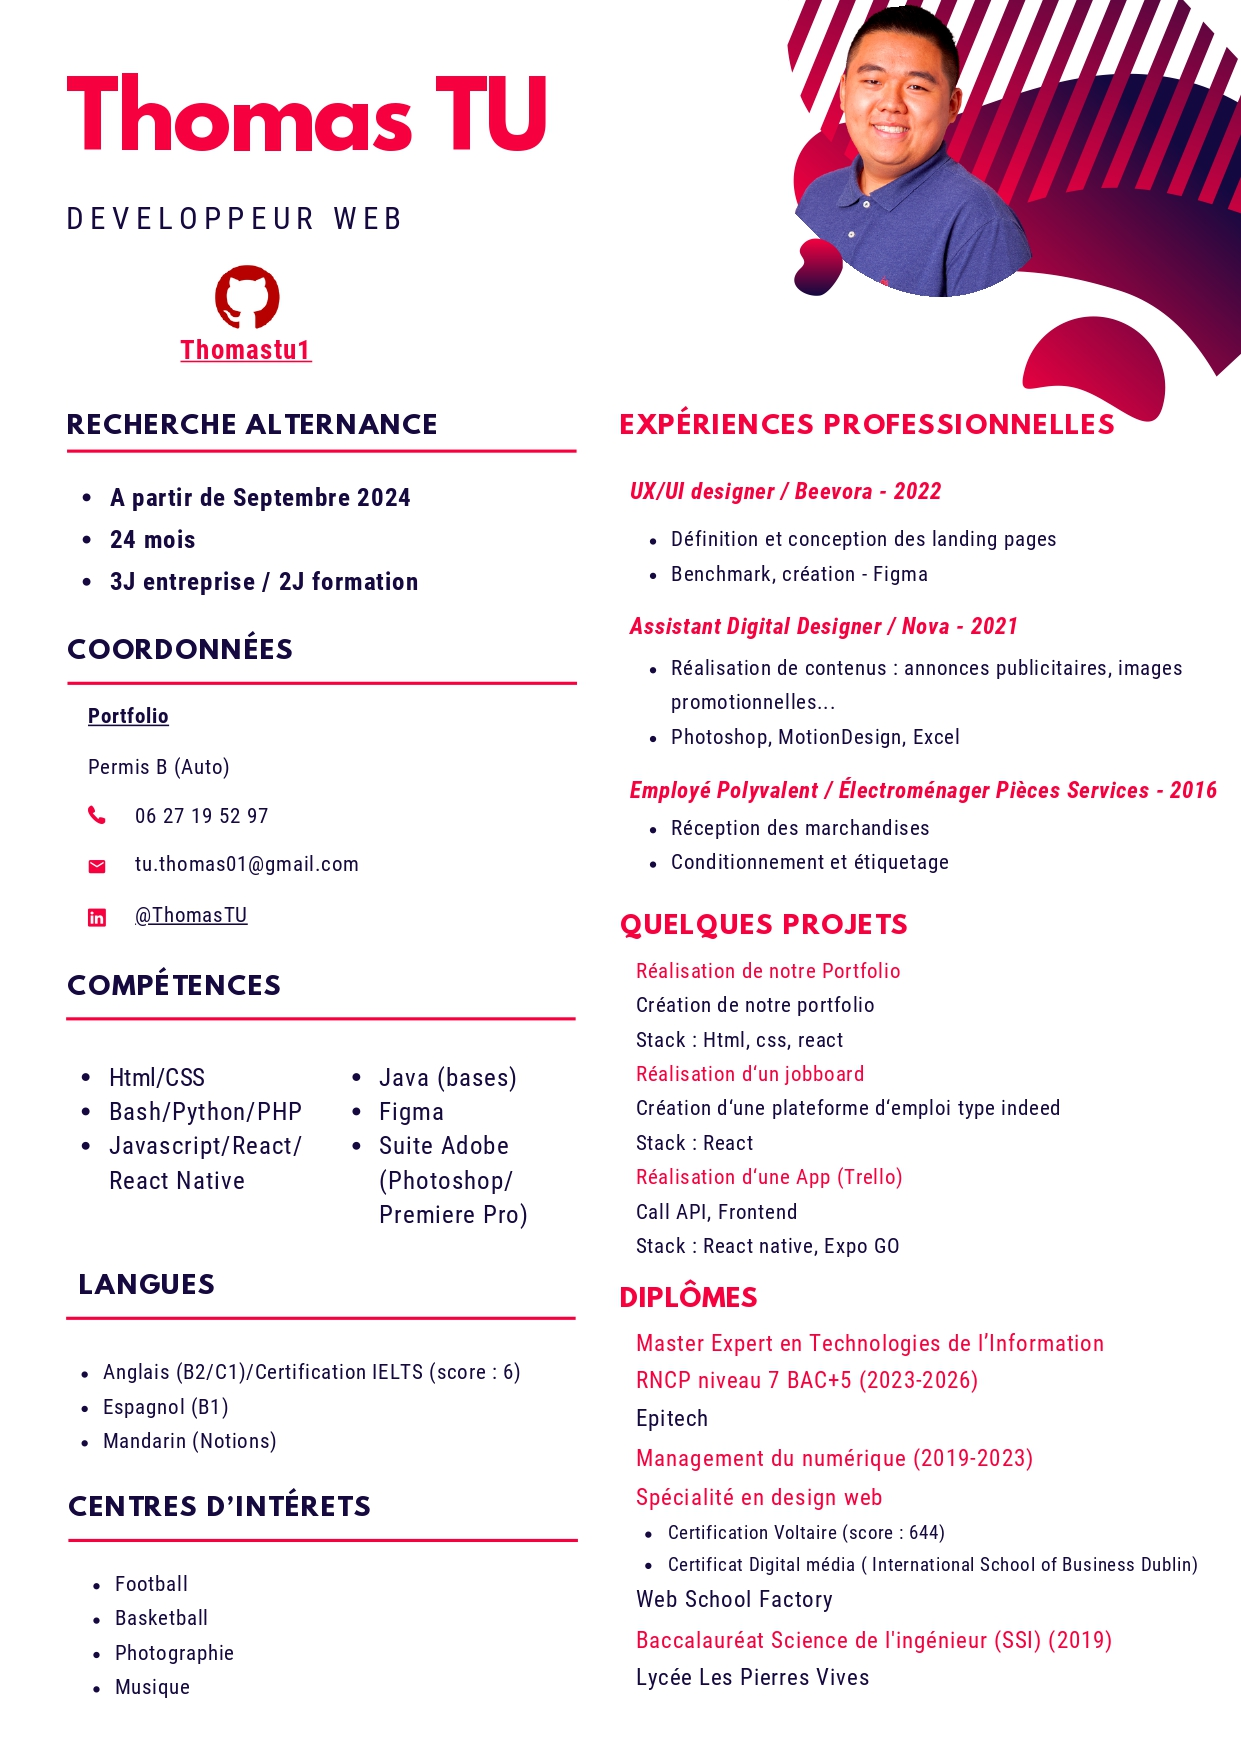
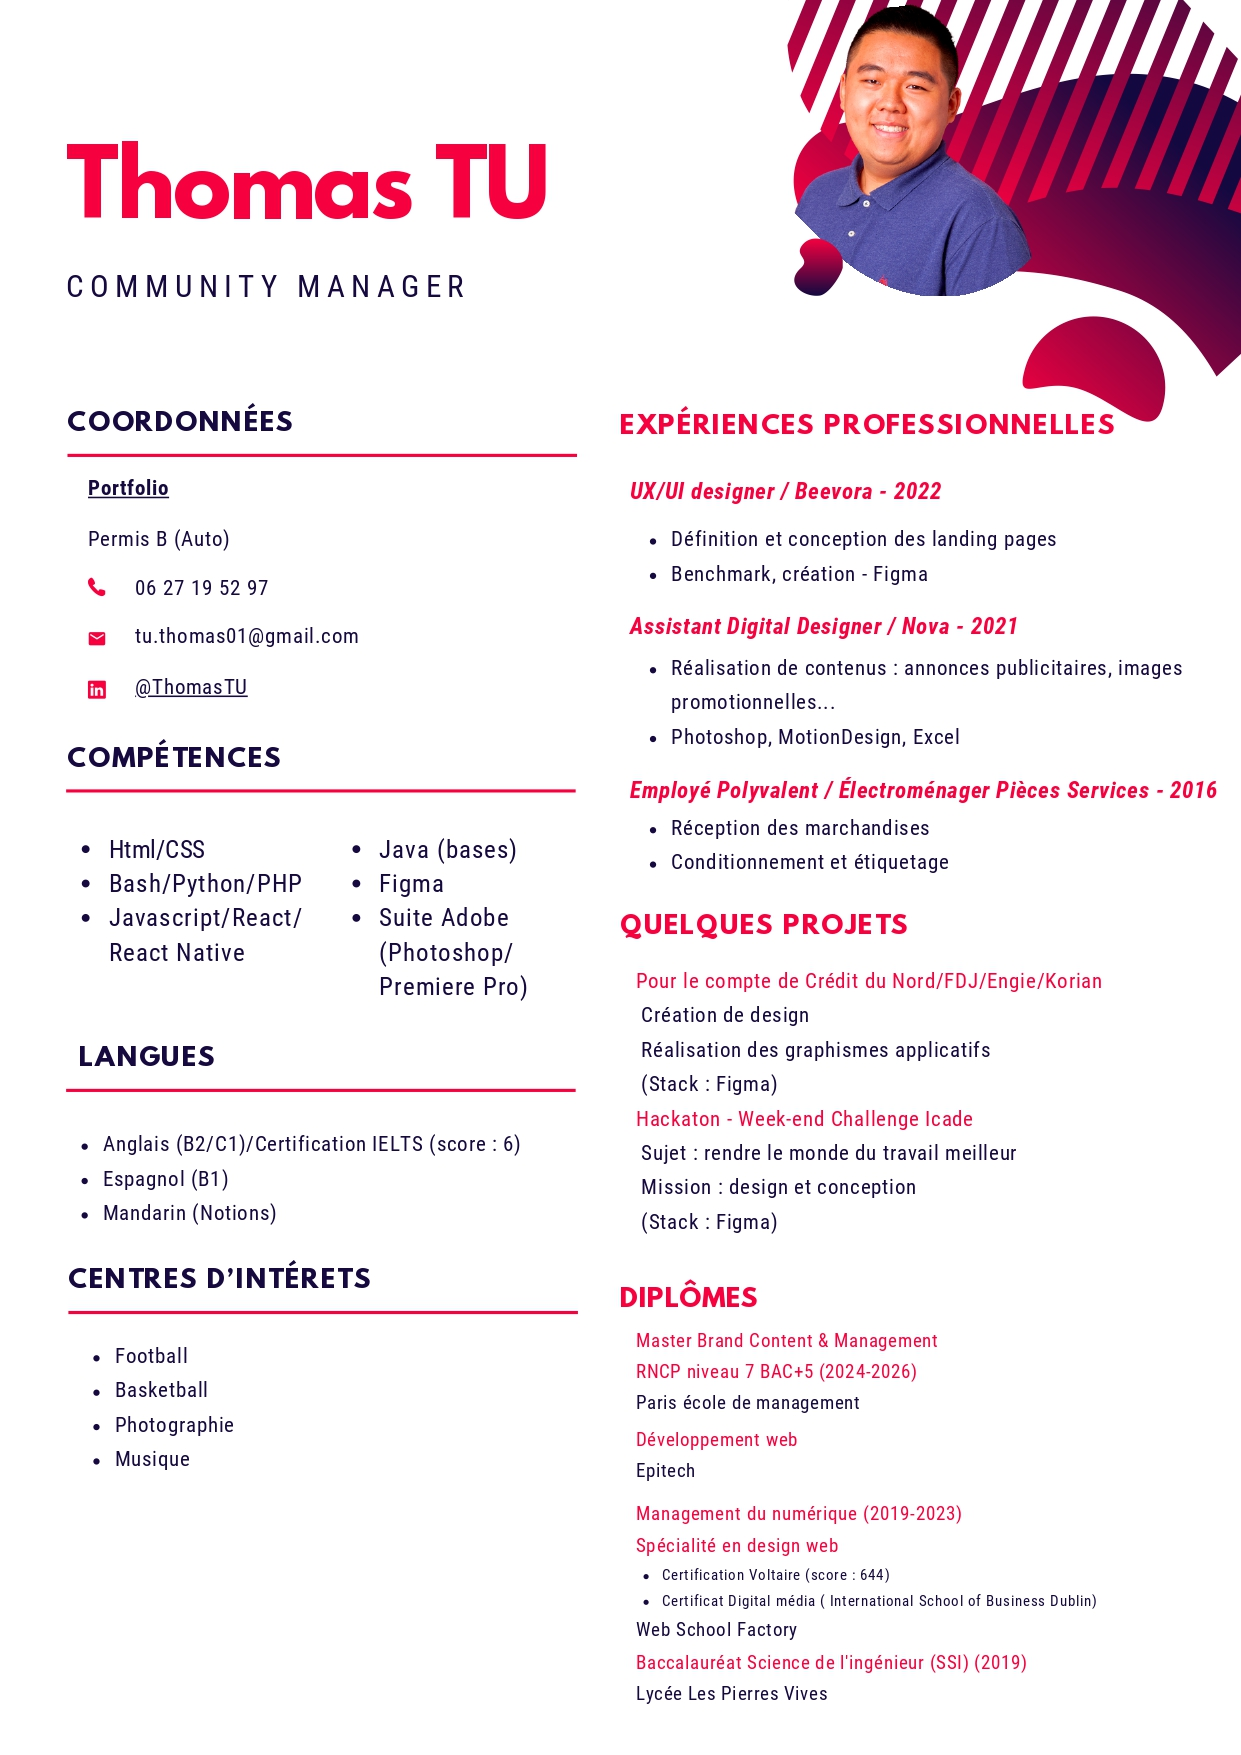
gh

diff --git a/cd-netlify-react-app/src/component/Pres.js b/cd-netlify-react-app/src/component/Pres.js
@@ -21,14 +21,20 @@ const Pres = () => {
       date: '2016',
       description: 'Réception des marchandises, conditionnement et étiquetage'
     },
-    // Ajoutez d'autres expériences selon vos besoins
+
   ];
 
   const education = [
     {
+      degree: 'Master Brand Content et Management',
+      school: 'Paris école de management à La defense',
+      date: '2024-2026',
+      description: 'Cours axés sur le management et la communication digitale',
+    },
+    {
         degree: 'Master Expert en Technologies de l Information',
         school: 'Epitech au Kremlin-Bicêtre',
-        date: '2023-2026',
+        date: '2023-2024',
         description: 'Cours axés sur les technologies web et de la programmation',
       },
     {
@@ -44,7 +50,7 @@ const Pres = () => {
         date: '2019',
         description: 'Spécialisation sciences de l ingénieur',
       },
-    // Ajoutez d'autres formations selon vos besoins
+
   ];
 
   return (

diff --git a/cd-netlify-react-app/src/component/home.js b/cd-netlify-react-app/src/component/home.js
@@ -15,10 +15,10 @@ const Home = () => {
   
         <div className="image-container flex items-center justify-end mt-8 sm:mt-0">
           <p className="h2">
-            Développeur web FrontEnd | En recherche d'une alternance pour Janvier 2024
+            Brand content et management | En recherche d'une alternance pour Septembre 2024
             <br />
             <br />
-            Rythme : 3 jours entreprise (mercredi - vendredi) | 2 jours formation (lundi - mardi)
+            Rythme : 4 jours entreprise (lundi - jeudi) | 1 jours formation (vendredi)
           </p>
           <img src={profileImage} alt="Profil" className="profile-image" />
         </div>

diff --git a/cd-netlify-react-app/src/component/nav.js b/cd-netlify-react-app/src/component/nav.js
@@ -68,7 +68,7 @@ export default function Nav() {
           </div>
 
           {/* Mobile menu (hidden on larger screens) */}
-          <Disclosure.Panel className="sm:hidden fixed top-0 left-0 w-full h-full bg-yellow-600 opacity-80">
+          <Disclosure.Panel className="sm:hidden fixed top-0 left-0 w-full h-full bg-[#8D73EA] opacity-80">
             <div className="flex items-center justify-center h-full">
               <div className="flex flex-col items-center space-y-4">
                 {navigation.map((item) => (

diff --git a/cd-netlify-react-app/src/App.js b/cd-netlify-react-app/src/App.js
@@ -24,7 +24,7 @@ function App() {
 <br/>
 <br/>
 <a href="#projets" id="projets"> </a>
-<p> <h1>Projets</h1></p>
+<p> <h1>Projets Web</h1></p>
 <br/>
 <Projet/> 
 <br/>
